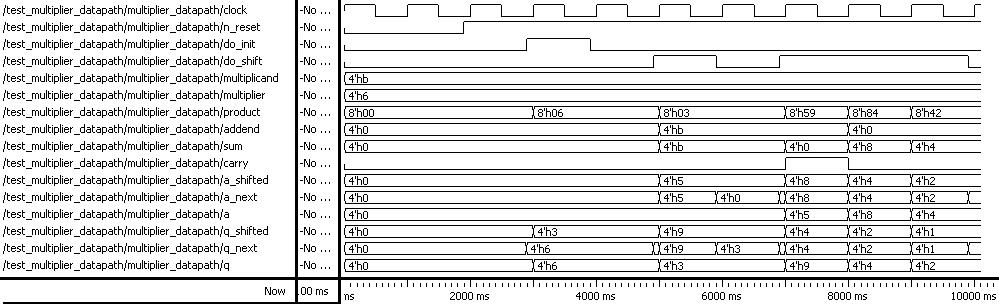
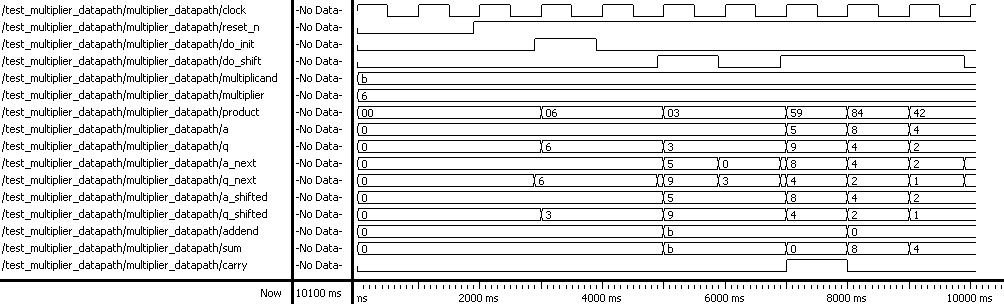
Work on report

diff --git a/report/d1report.tex b/report/d1report.tex
@@ -1,5 +1,6 @@
 \documentclass[a4paper]{article}
 
+\usepackage[svgnames]{xcolor}
 \usepackage[font=small,format=plain,labelfont=bf,up,textfont=up]{caption}
 \usepackage{fancyvrb}
 \usepackage[margin=2cm]{geometry}
@@ -16,9 +17,18 @@
 \newcommand{\modulelisting}[3]{
   \begin{listing}[p]
     \linespread{.9}\inputminted[fontsize=\scriptsize,linenos]{systemverilog}{#2}
-    \centering\caption{#3}
+    \caption{#3}
     \label{lst:#1}
   \end{listing}
+}
+
+% Args are module name, caption text
+\newcommand{\waveformfigure}[3]{
+  \begin{figure}[p]
+    \centering\includegraphics[width=\textwidth]{assets/#1}
+    \caption{#2}
+    \label{fig:#1}
+  \end{figure}
 }
 
 \title{ELEC2221 D1: Design and test of a sequential multiplier}
@@ -34,6 +44,10 @@ Lab session: November 21, 2016}
 \maketitle
 
 \begin{abstract}
+  % Implemented multiplier
+  % Simulated in ModelSim, with assertions
+  % Synthesised for MachXO2 using Synplify, tested
+  % Extensions: debouncer, 8-bit
   \todo[inline]{blah}
 \end{abstract}
 
@@ -99,11 +113,7 @@ The testbench begins with the reset signal active, and checks that the registers
 \modulelisting{test_multiplier_datapath}{../src/multiplier/test/test_multiplier_datapath.sv}
   {Source code of the \texttt{test\_multiplier\_datapath} module, which tests the operation of the data registers and add/shift computation logic.}
 
-\begin{figure}[p]
-  \centering\includegraphics[width=\textwidth]{assets/test_multiplier_datapath}
-  \centering\caption{Waveform of the \texttt{test\_multiplier\_datapath} testbench.}
-  \label{fig:test_multiplier_datapath}
-\end{figure}
+\waveformfigure{test_multiplier_datapath}{Waveform of the \texttt{test\_multiplier\_datapath} testbench. Values shown in the waveform traces are in hexadecimal.}
 
 \subsection{Synthesis}
 \label{sec:reg:synth}
@@ -126,18 +136,18 @@ In the Done state, the system holds the \texttt{ready} output high, signalling t
   \begin{tikzpicture}[->,
                       node distance=.5cm and .5cm,
                       basenode/.style={draw,text width=3cm,text centered,inner ysep=.25cm,font={\scriptsize}},
-                      state/.style={basenode,rectangle,inner ysep=.5cm},
-                      decision/.style={basenode,diamond,aspect=2,inner ysep=0cm},
-                      condout/.style={basenode,rectangle,rounded corners=.2cm}]
+                      state/.style={basenode,rectangle,inner ysep=.5cm,fill=LightYellow},
+                      decision/.style={basenode,diamond,aspect=2,inner ysep=0cm,fill=LightSkyBlue},
+                      condout/.style={basenode,rectangle,rounded corners=.2cm,fill=LightGreen}]
     \node[coordinate] (begin) {start};
-    \node[state] (idle) [below=of begin] {Idle};
+    \node[state,label={[anchor=west,xshift=1.7cm]90:idle}] (idle) [below=of begin] {};
     \node[decision] (idle-start) [below=of idle] {\texttt{start}};
     \node[condout] (idle-datapath) [below=of idle-start] {\texttt{datapath\_do\_init}};
     \node[condout] (idle-counter) [below=of idle-datapath] {\texttt{counter\_do\_preset}};
-    \node[state] (working) [below=of idle-counter] {Working};
+    \node[state,label={[anchor=west,xshift=1.7cm]90:working}] (working) [below=of idle-counter] {};
     \node[condout] (working-datapath) [below=of working] {\texttt{datapath\_do\_shift}};
     \node[decision] (working-is-zero) [below=of working-datapath] {\texttt{counter\_is\_zero}};
-    \node[state] (done) [below=of working-is-zero] {Done\\\texttt{ready}};
+    \node[state,label={[anchor=west,xshift=1.7cm]90:done}] (done) [below=of working-is-zero] {\texttt{ready}};
     \node[decision] (done-start) [below=of done] {\texttt{start}};
     \node[coordinate] (n1) [right=of idle-start] {};
     \node[coordinate] at (idle -| n1) (n0) {};
@@ -163,14 +173,14 @@ In the Done state, the system holds the \texttt{ready} output high, signalling t
     \draw (done-start) -- node[above,very near start] {1} (n5) -- (n4) -> (done);
     \draw (done-start) -- node[above,very near start] {0} (n7) -- (n6) -> (idle);
   \end{tikzpicture}
-  \caption{An ASM chart representing the operation of the multiplier. Rectangular nodes represent states, and arrows represent possible transition paths. Rounded rectangles represent conditional outputs that should be asserted only when the transition path is taken. Diamonds represent decisions (input tests).}
+  \caption{An ASM chart representing the operation of the multiplier. Rectangular nodes represent states, and arrows represent possible transition paths. The text inside each state node lists the unconditional outputs that are active during that state; the name of the state is instead given by the label at the top-right corner of the node. Rounded rectangles represent conditional outputs that should be asserted only when the transition path is taken. Diamonds represent decisions (input tests).}
   \label{fig:asm}
 \end{figure}
 
 \subsection{Implementation}
 \label{sec:seq:impl}
 
-The 2-bit counter used for counting the number of remaining iterations of the shift/add operation is implemented in the \texttt{multiplier\_counter} module, whose source code is given in Listing~\ref{lst:multiplier_counter}. The remainder of the state machine is implemented in the \texttt{multiplier\_controller} module, whose source code is given in Listing~\ref{lst:multiplier_controller}.
+The 2-bit counter used for counting the number of remaining iterations of the shift/add operation is implemented in the \texttt{multiplier\_counter} module, whose source code is given in Listing~\ref{lst:multiplier_counter}. The remainder of the state machine is implemented in the \texttt{multiplier\_controller} module, whose source code is given in Listing~\ref{lst:multiplier_controller}. After cleaning up some minor syntax errors, the simulation ran first time with all assertions passing.
 
 \modulelisting{multiplier_counter}{../src/multiplier/multiplier_counter.sv}
   {Source code of the \texttt{multiplier\_counter} module, which contains the 2-bit counter that records the number of remaining iterations of the algorithm.}
@@ -181,7 +191,12 @@ The 2-bit counter used for counting the number of remaining iterations of the sh
 \subsection{Simulation}
 \label{sec:seq:sim}
 
-\todo[inline]{todo}
+A testbench for the counter was prepared; its source code is given in Listing~\ref{lst:test_multiplier_counter}. Running this testbench through ModelSim gives the waveform shown in Figure~\ref{fig:test_multiplier_counter}.
+
+\modulelisting{test_multiplier_counter}{../src/multiplier/test/test_multiplier_counter.sv}
+  {Source code of the \texttt{test\_multiplier\_counter} testbench, which tests the 2-bit counter used to keep track of the remaining number of iterations.}
+
+\waveformfigure{test_multiplier_counter}{Waveform of the \texttt{test\_multiplier\_counter} testbench. Values shown in the waveform traces are in hexadecimal.}
 
 \subsection{Synthesis}
 \label{sec:seq:synth}
